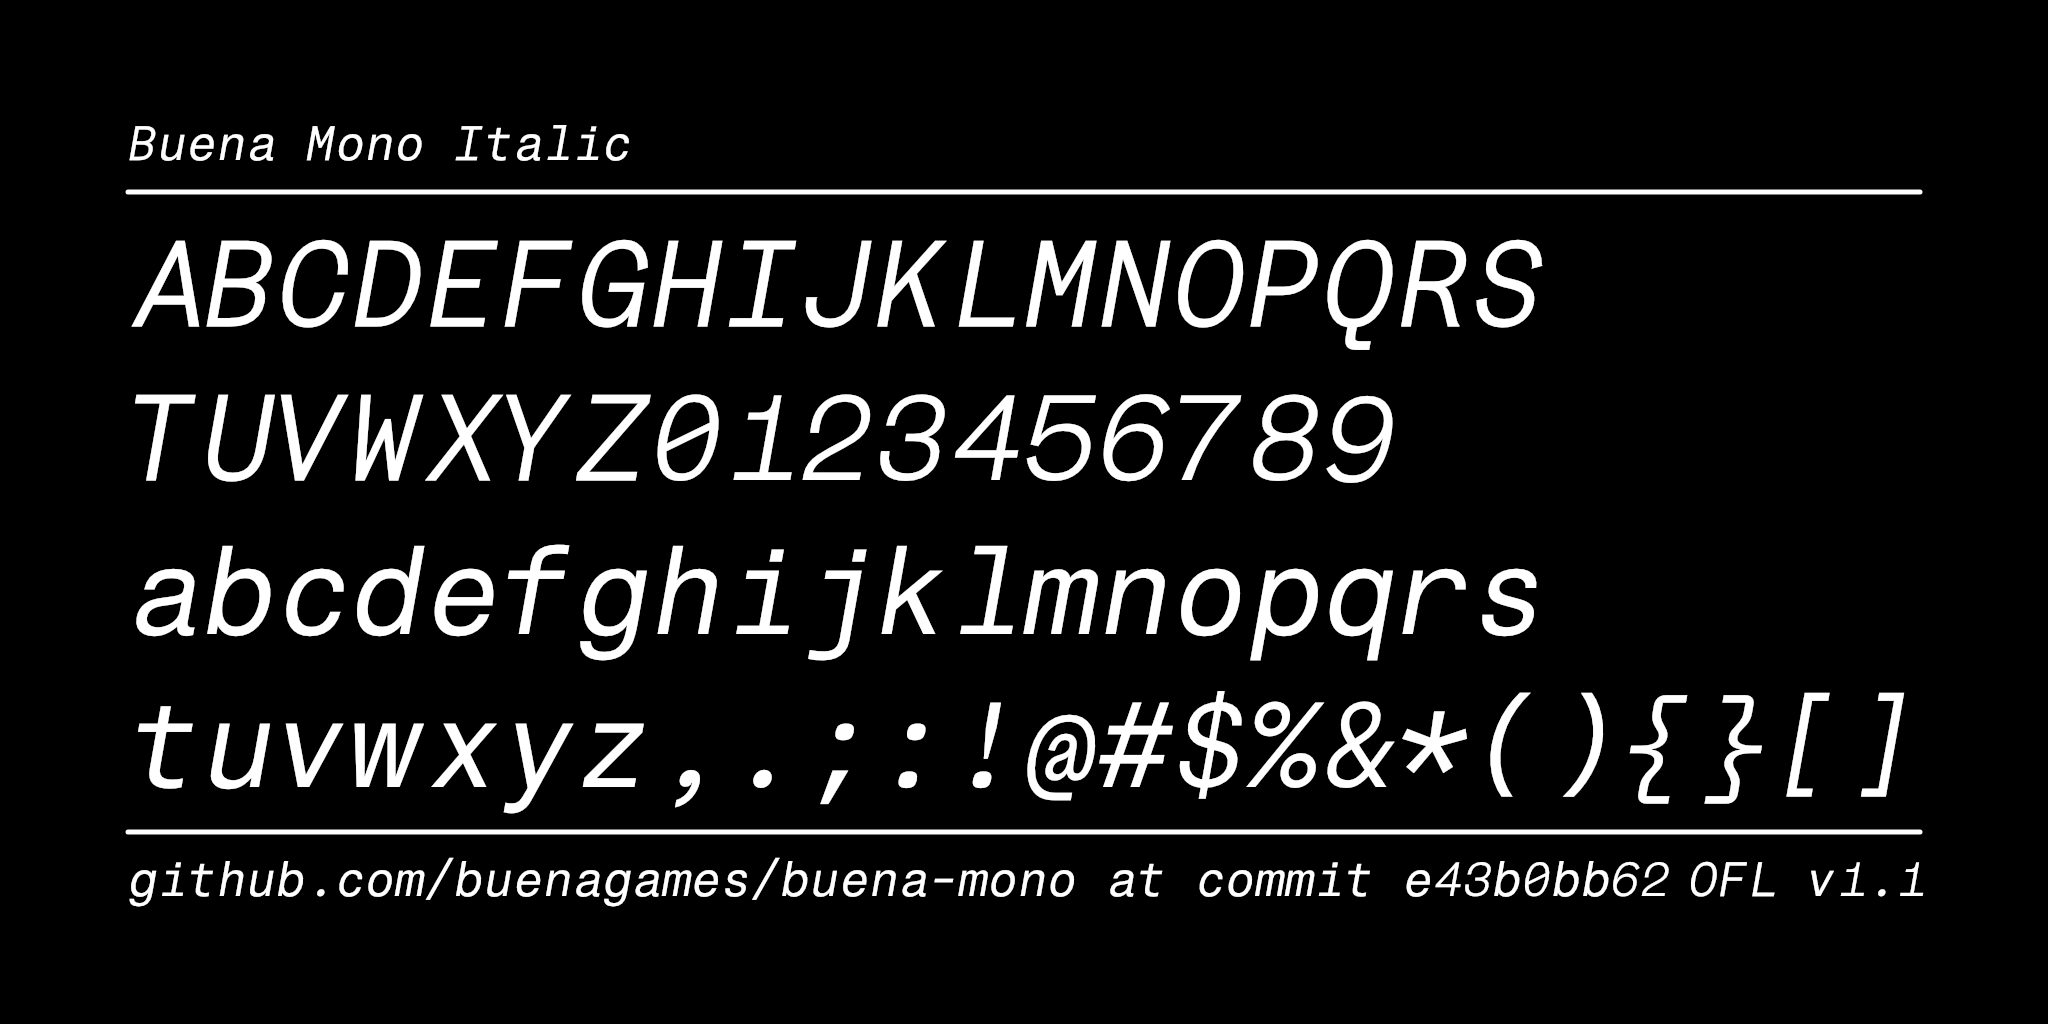
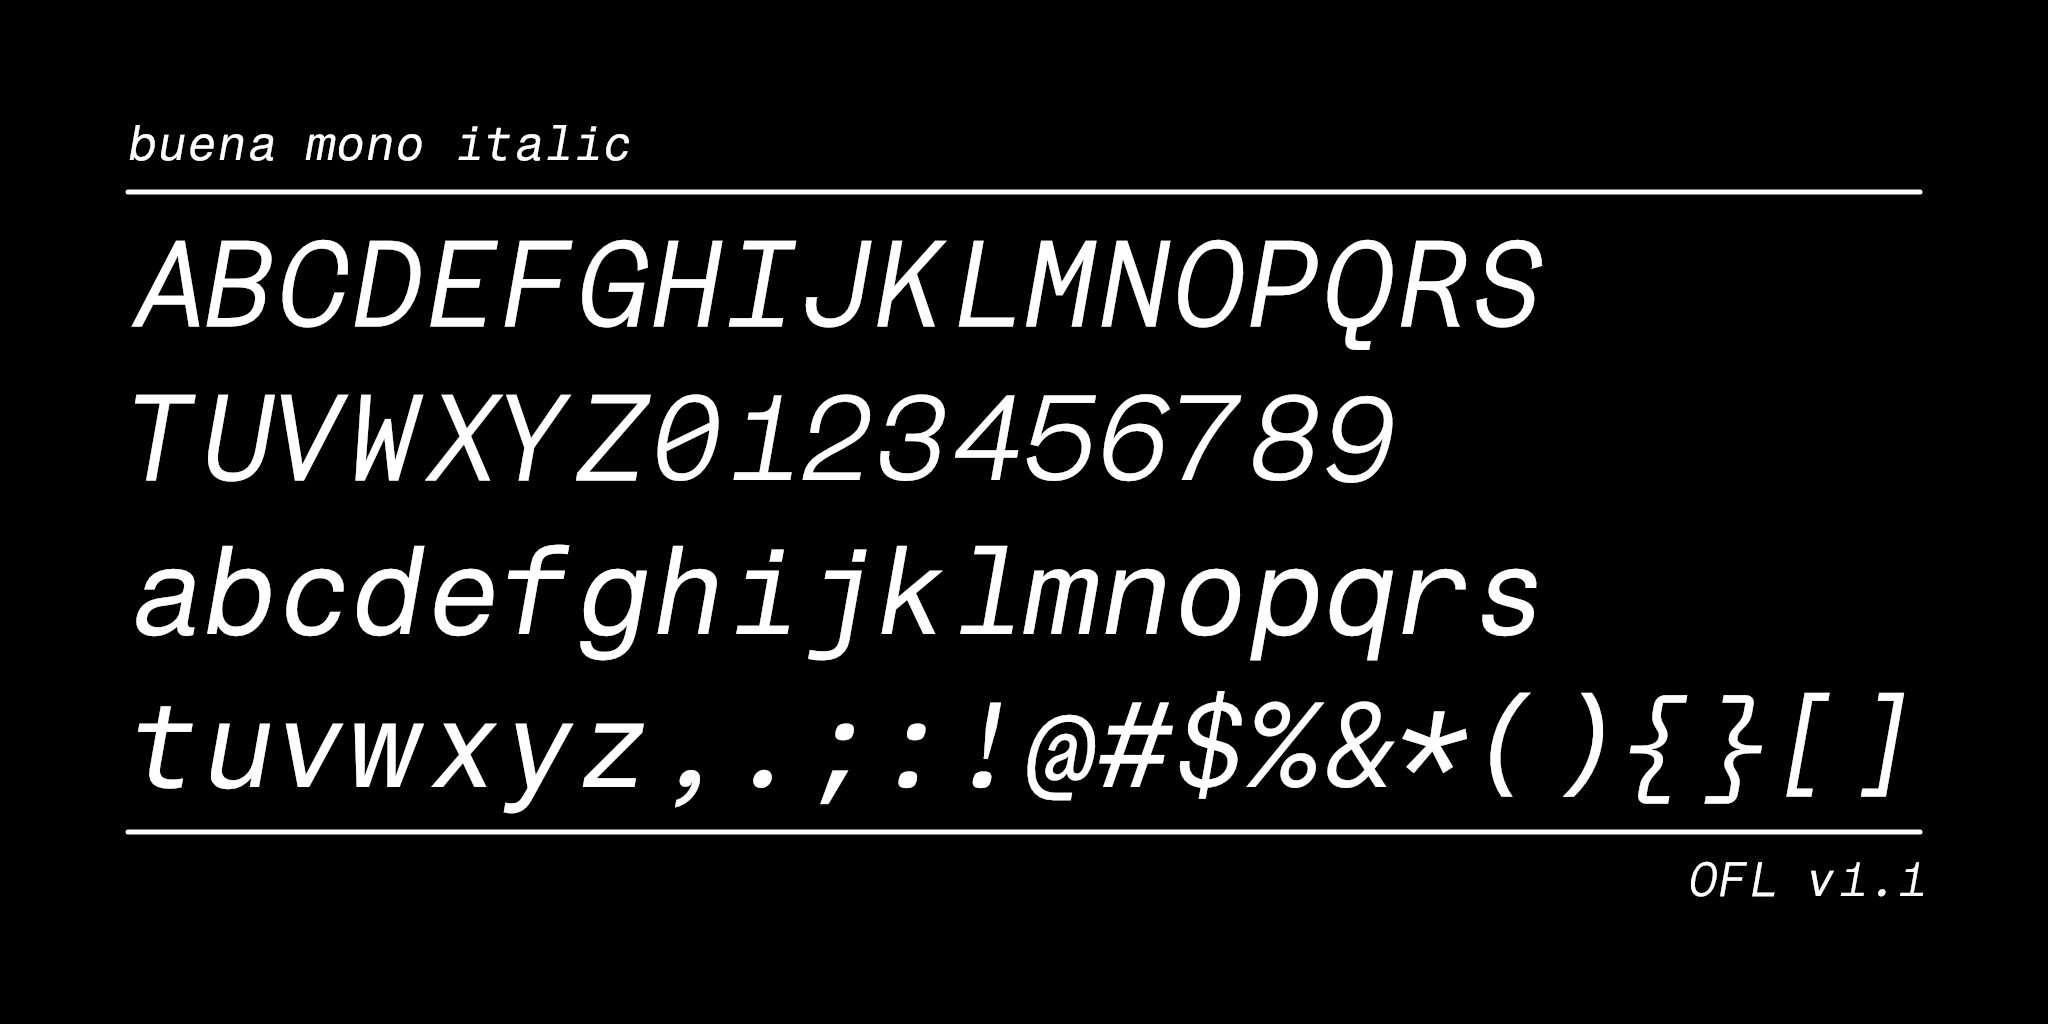
docs: regenerate public images — lowercase wordmarks, drop repo URL, add cli + social-preview generators
- hero/character-set roman+italic: lowercase 'buena mono …' labels, remove the
  github URL/commit stamp (keep OFL license)
- specimen: lowercase 'buena mono' title
- new docs/cli.py: code-window + terminal + statusline in the Show Syntax palette
- new docs/social-preview.py: 1280x640 GitHub card, Regular wordmark
- make images: regenerate the full set incl. specimen + stylistic-sets
- README: add the cli showcase

diff --git a/docs/cli.py b/docs/cli.py
@@ -1,0 +1,179 @@
+# Generates docs/cli.png — a code-window + terminal + statusline showcase
+# rendering Buena Mono in the "Show Syntax" palette (terracotta / green /
+# blue on black). Run after `make build` (or with the committed fonts):
+#   $ python3 docs/cli.py --output docs/cli.png
+#
+# Monospace makes token placement exact: every glyph shares one advance,
+# so a token at column c sits at x = MARGIN + c * charW — no measuring.
+
+import argparse
+
+from drawbot_skia.drawbot import *
+from fontTools.ttLib import TTFont
+
+WIDTH, HEIGHT = 2048, 1152
+FONT_PATH = "fonts/variable/BuenaMono-VF.ttf"
+
+# ---- Show Syntax palette -------------------------------------------------
+def hx(s):
+    s = s.lstrip("#")
+    return tuple(int(s[i:i + 2], 16) / 255 for i in (0, 2, 4))
+
+BG      = hx("000000")   # page
+PANE    = hx("0d0d0d")   # window fill (lifts off pure black)
+BORDER  = hx("262626")   # window border
+HAIR    = hx("1e1e1e")   # inner dividers
+FG      = hx("ededed")   # base text
+MUTED   = hx("8a8a8a")   # secondary
+LN      = hx("4a4a4a")   # line numbers
+COM     = hx("6e6e6e")   # comments
+KW      = hx("d97757")   # keywords (terracotta)
+STR     = hx("10a37f")   # strings (green)
+FN      = hx("4285f4")   # functions / types (blue)
+NUM     = hx("4fa8ff")   # numbers (light blue)
+TERRA   = hx("d97757")
+GREEN   = hx("10a37f")
+RED     = hx("ff5f57")   # traffic lights
+YEL     = hx("febc2e")
+GRN_DOT = hx("28c840")
+
+
+def rrect(x, y, w, h, r, tl=True, tr=True, br=True, bl=True):
+    """Rounded-rect BezierPath with per-corner control (drawbot y-up coords)."""
+    rtl, rtr = (r if tl else 0), (r if tr else 0)
+    rbr, rbl = (r if br else 0), (r if bl else 0)
+    p = BezierPath()
+    p.moveTo((x + rbl, y))
+    p.lineTo((x + w - rbr, y))
+    if rbr: p.arcTo((x + w, y), (x + w, y + rbr), rbr)
+    p.lineTo((x + w, y + h - rtr))
+    if rtr: p.arcTo((x + w, y + h), (x + w - rtr, y + h), rtr)
+    p.lineTo((x + rtl, y + h))
+    if rtl: p.arcTo((x, y + h), (x, y + h - rtl), rtl)
+    p.lineTo((x, y + rbl))
+    if rbl: p.arcTo((x, y), (x + rbl, y), rbl)
+    p.closePath()
+    return p
+
+# ---- code content: rows of (text, color) segments; None = blank line -----
+CODE = [
+    [("// buena mono · a writer-first monospace", COM)],
+    [("import", KW), (" { shape } ", FG), ("from", KW), (" ", FG), ('"./buena"', STR), (";", FG)],
+    [("const", KW), (" weights ", FG), ("=", FG), (" [", FG), ("100", NUM), (", ", FG),
+     ("400", NUM), (", ", FG), ("700", NUM), (", ", FG), ("800", NUM), ("];", FG)],
+    None,
+    [("export", KW), (" ", FG), ("function", KW), (" ", FG), ("render", FN),
+     ("(src: ", FG), ("string", FN), ("): ", FG), ("Glyph", FN), ("[] {", FG)],
+    [("  return", KW), (" src", FG)],
+    [('    .split(', FG), ('""', STR), (")", FG)],
+    [("    .filter((c) ", FG), ("=>", KW), (" c ", FG), ("!=", KW), (" ", FG), ('" "', STR), (")", FG)],
+    [("    .map((c) ", FG), ("=>", KW), (" ", FG), ("shape", FN), ("(c));", FG)],
+    [("}", FG)],
+    None,
+    [("// ligatures  ", COM), ("=>  !=  >=  ->  <=  ===  |>", KW)],
+]
+
+TERM = [
+    [("$", TERRA), (" npm run build", FG)],
+    [("▸", TERRA), (" building buena-mono …", MUTED)],
+    [("✓", GREEN), (" 5,080 glyphs · 971 languages", FG)],
+    [("  wght 100–800 · slnt 0 to −10°", MUTED)],
+]
+
+
+def main():
+    ap = argparse.ArgumentParser()
+    ap.add_argument("--output", metavar="PNG", default="docs/cli.png")
+    args = ap.parse_args()
+
+    tt = TTFont(FONT_PATH)
+    upm = tt["head"].unitsPerEm
+    adv = tt["hmtx"]["A"][0]
+
+    SIZE = 30
+    charW = SIZE * adv / upm          # exact monospace advance
+    lineH = 42
+    MARGIN = 84                        # window inset from frame edge
+    PAD = 56                           # content inset from window edge
+    BAR_H = 54                         # statusline height
+    R = 30                             # window corner radius
+
+    newPage(WIDTH, HEIGHT)
+    fill(*BG); rect(-2, -2, WIDTH + 2, HEIGHT + 2)
+
+    # window (rounded outer border)
+    wx, wy, ww, wh = MARGIN, MARGIN, WIDTH - 2 * MARGIN, HEIGHT - 2 * MARGIN
+    fill(*PANE); stroke(*BORDER); strokeWidth(2)
+    drawPath(rrect(wx, wy, ww, wh, R)); stroke(None)
+
+    # `top` = distance from the FRAME TOP; drawbot baseline y = HEIGHT - top.
+    win_top = MARGIN                       # top edge of window, as a top-offset
+    win_bot = HEIGHT - wy                  # bottom edge of window, as a top-offset
+
+    def run(segments, top, x0):
+        y = HEIGHT - top
+        x = x0
+        font(FONT_PATH); fontSize(SIZE)
+        for txt, col in segments:
+            fill(*col)
+            text(txt, (x, y), align="left")
+            x += len(txt) * charW
+
+    # --- title bar: three dots + filename, hairline under ---
+    tb = win_top + 60
+    cx = wx + PAD + 10
+    dot_y = HEIGHT - (tb - 2)
+    for c in (RED, YEL, GRN_DOT):
+        fill(*c); oval(cx - 9, dot_y - 9, 18, 18); cx += 38
+    font(FONT_PATH); fontSize(24); fill(*MUTED)
+    text("buena.ts", (cx + 22, dot_y - 8), align="left")
+    stroke(*HAIR); strokeWidth(2)
+    line((wx, HEIGHT - (win_top + 100)), (wx + ww, HEIGHT - (win_top + 100)))
+    stroke(None)
+
+    # --- code ---
+    gutter_x = wx + PAD + 44
+    text_x = wx + PAD + 88
+    top = win_top + 152
+    ln = 1
+    for row in CODE:
+        if row is not None:
+            font(FONT_PATH); fontSize(SIZE); fill(*LN)
+            text(str(ln), (gutter_x, HEIGHT - top), align="right")
+            run(row, top, text_x)
+        ln += 1
+        top += lineH
+
+    # --- terminal band: pinned above the statusline, divider above it ---
+    term_h = len(TERM) * lineH + 24
+    term_bottom = win_bot - BAR_H - 30     # keep clear of the statusline
+    term_top = term_bottom - term_h
+    stroke(*HAIR); strokeWidth(2)
+    line((wx, HEIGHT - (term_top - 20)), (wx + ww, HEIGHT - (term_top - 20)))
+    stroke(None)
+    t = term_top + 34
+    for row in TERM:
+        run(row, t, wx + PAD)
+        t += lineH
+
+    # --- statusline: terracotta NORMAL block + file, right-aligned meta ---
+    bar_y = wy + 2                         # just inside the bottom border
+    fill(*hx("111111"))
+    drawPath(rrect(wx + 2, bar_y, ww - 4, BAR_H, R - 3, tl=False, tr=False))
+    seg = " NORMAL "
+    seg_w = len(seg) * (24 * adv / upm)
+    fill(*TERRA)
+    drawPath(rrect(wx + 2, bar_y, seg_w, BAR_H, R - 3, tl=False, tr=False, br=False))
+    font(FONT_PATH); fontSize(24)
+    ty = bar_y + BAR_H / 2 - 8
+    fill(*hx("000000")); text(seg, (wx + 10, ty), align="left")
+    fill(*MUTED); text("  buena.ts", (wx + 2 + seg_w + 8, ty), align="left")
+    fill(*MUTED)
+    text("utf-8   ln 11, col 18   Buena Mono  ", (wx + ww - 8, ty), align="right")
+
+    saveImage(args.output)
+    print("DrawBot: cli.png done")
+
+
+if __name__ == "__main__":
+    main()

diff --git a/docs/social-preview.py b/docs/social-preview.py
@@ -1,0 +1,57 @@
+# Generates docs/social-preview.png — the 1280x640 GitHub social card.
+# Run after `make build` (or with the committed fonts in fonts/variable/):
+#   $ python3 docs/social-preview.py --output docs/social-preview.png
+#
+# Wordmark set in Buena Mono Regular; centred layout on black.
+
+import argparse
+
+from drawbot_skia.drawbot import *
+from fontTools.ttLib import TTFont
+
+WIDTH, HEIGHT = 1280, 640
+FONT_PATH = "fonts/variable/BuenaMono-VF.ttf"
+
+FG    = (0.93, 0.93, 0.93)   # #ededed
+MUTED = (0.54, 0.54, 0.54)   # #8a8a8a
+
+WORDMARK = "buena mono"
+SUBTITLE = "a writer-first monospace typeface"
+GLYPHS   = "0O  1lI  ⇒ ≠ ≥ →  ẞ ə ħ"
+STATS    = "5,080 glyphs · 971 languages · wght 100–800 · slnt 0 to −10°"
+
+
+def main():
+    ap = argparse.ArgumentParser()
+    ap.add_argument("--output", metavar="PNG", default="docs/social-preview.png")
+    args = ap.parse_args()
+
+    TTFont(FONT_PATH)  # validate the font path early
+
+    newPage(WIDTH, HEIGHT)
+    fill(0); rect(-2, -2, WIDTH + 2, HEIGHT + 2)
+    font(FONT_PATH)
+    cx = WIDTH / 2
+
+    # wordmark — Buena Mono Regular (default instance, wght 400)
+    fill(*FG); fontSize(128)
+    text(WORDMARK, (cx, 392), align="center")
+
+    # subtitle
+    fill(*MUTED); fontSize(34)
+    text(SUBTITLE, (cx, 300), align="center")
+
+    # glyph showcase row
+    fill(*FG); fontSize(52)
+    text(GLYPHS, (cx, 178), align="center")
+
+    # stats line
+    fill(*MUTED); fontSize(28)
+    text(STATS, (cx, 78), align="center")
+
+    saveImage(args.output)
+    print("DrawBot: social-preview.png done")
+
+
+if __name__ == "__main__":
+    main()

diff --git a/docs/character-set-italic.py b/docs/character-set-italic.py
@@ -121,11 +121,8 @@ def draw_auxiliary_text():
     POS_TOP_RIGHT = (WIDTH - MARGIN, HEIGHT - MARGIN * 1.25)
     POS_BOTTOM_LEFT = (MARGIN, MARGIN)
     POS_BOTTOM_RIGHT = (WIDTH - MARGIN * 0.95, MARGIN)
-    URL_AND_HASH = MY_URL + " at commit " + MY_HASH
-    URL_AND_HASH = URL_AND_HASH.replace("\n", " ").strip()
-    text(FONT_NAME, POS_TOP_LEFT, align="left")
-    # version stamp removed — went stale between releases (BUENA-334 review)
-    text(URL_AND_HASH, POS_BOTTOM_LEFT, align="left")
+    text(FONT_NAME.lower(), POS_TOP_LEFT, align="left")
+    # version stamp + repo URL/commit removed per design review (2026-07)
     text(FONT_LICENSE, POS_BOTTOM_RIGHT, align="right")
 
 

diff --git a/docs/character-set-roman.py b/docs/character-set-roman.py
@@ -112,11 +112,8 @@ def draw_auxiliary_text():
     POS_TOP_RIGHT = (WIDTH - MARGIN, HEIGHT - MARGIN * 1.25)
     POS_BOTTOM_LEFT = (MARGIN, MARGIN)
     POS_BOTTOM_RIGHT = (WIDTH - MARGIN * 0.95, MARGIN)
-    URL_AND_HASH = MY_URL + " at commit " + MY_HASH
-    URL_AND_HASH = URL_AND_HASH.replace("\n", " ").strip()
-    text(FONT_NAME, POS_TOP_LEFT, align="left")
-    # version stamp removed — went stale between releases (BUENA-334 review)
-    text(URL_AND_HASH, POS_BOTTOM_LEFT, align="left")
+    text(FONT_NAME.lower(), POS_TOP_LEFT, align="left")
+    # version stamp + repo URL/commit removed per design review (2026-07)
     text(FONT_LICENSE, POS_BOTTOM_RIGHT, align="right")
 
 

diff --git a/docs/hero.py b/docs/hero.py
@@ -103,11 +103,8 @@ def draw_auxiliary_text():
     POS_TOP_RIGHT = (WIDTH - MARGIN, HEIGHT - MARGIN * 1.25)
     POS_BOTTOM_LEFT = (MARGIN, MARGIN)
     POS_BOTTOM_RIGHT = (WIDTH - MARGIN * 0.95, MARGIN)
-    URL_AND_HASH = MY_URL + " at commit " + MY_HASH
-    URL_AND_HASH = URL_AND_HASH.replace("\n", " ").strip()
-    text(FONT_NAME, POS_TOP_LEFT, align="left")
-    # version stamp removed — went stale between releases (BUENA-334 review)
-    text(URL_AND_HASH, POS_BOTTOM_LEFT, align="left")
+    text(FONT_NAME.lower(), POS_TOP_LEFT, align="left")
+    # version stamp + repo URL/commit removed per design review (2026-07)
     text(FONT_LICENSE, POS_BOTTOM_RIGHT, align="right")
 
 

diff --git a/scripts/make-specimens.py b/scripts/make-specimens.py
@@ -30,7 +30,7 @@ def hb(font, text, size, variations, fg, bg, out, features=None):
 def hero(font, tmp, outpath):
     FG, W, PAD = "EDEDED", 1680, 72
     lines = [
-        ("Buena Mono", 620, 132, 0),
+        ("buena mono", 620, 132, 0),
         ("Writer-first monospace · weight 100–800 · slant 0 to −10°", 400, 34, 34),
         ("Sphinx of black quartz, judge my vow", 100, 44, 42),
         ("Sphinx of black quartz, judge my vow", 300, 44, 10),

diff --git a/README.md b/README.md
@@ -60,6 +60,13 @@ Grab the fonts from [`fonts/variable/`](fonts/variable) — `BuenaMono-VF.ttf`
   `ss13` machine-readable mode (decomposes every ligature for OCR/verbatim)
 - OpenType: `ccmp`, `mark`, `mkmk`, `aalt`, `calt`, `liga`, `smcp`, `ss01`–`ss13`
 
+## In your editor
+
+Code ligatures, syntax-friendly letterforms, and a terminal-ready statusline —
+Buena Mono tuned for real editing:
+
+![Buena Mono in a code editor](docs/cli.png)
+
 ## Specimen
 
 Weight from hairline thin to solid extrabold, code ligatures, and multi-script
